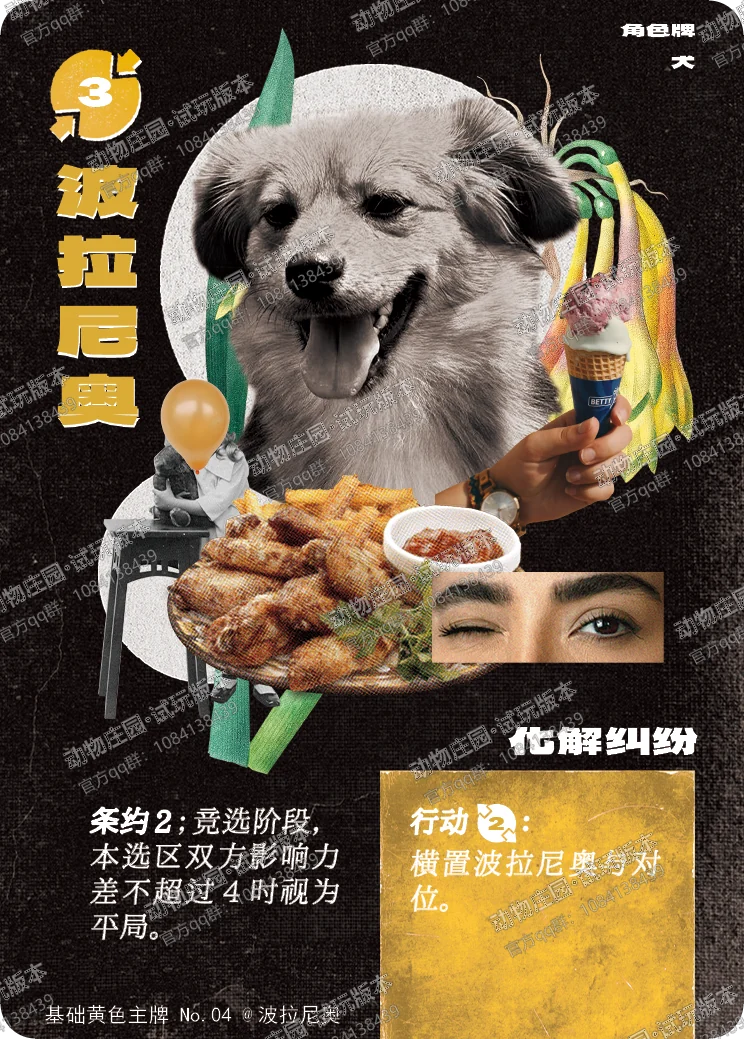
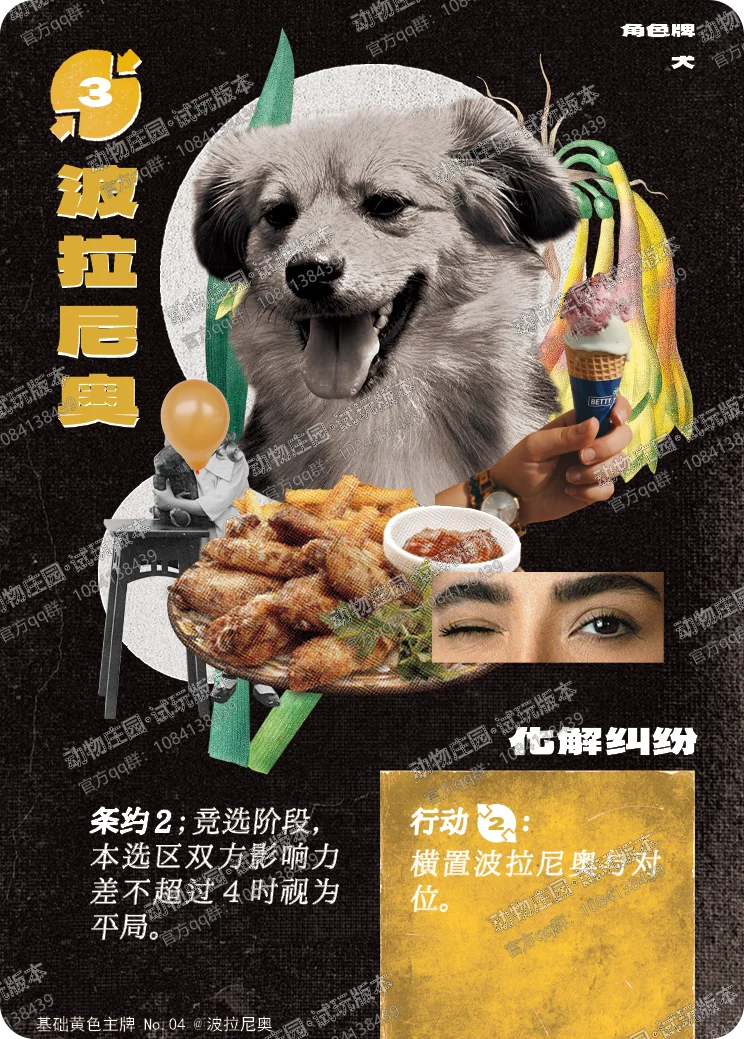
加入4张SP卡(唐纳德鸭/永远在赢/肥头/肥头二世)+更新那只猫/波拉尼奥art；统一补3mm圆角+水印

diff --git a/js/data.js b/js/data.js
@@ -377,7 +377,7 @@ window.CARDS = [
     "declEffect": "再次执行你的上一个行动效果。",
     "bound": "",
     "tags": "",
-    "image": null,
+    "image": "assets/cards/Yellow_SP_Leader_01.webp",
     "altImage": null,
     "pairId": "Yellow_SP_Sub_01"
   },
@@ -394,7 +394,7 @@ window.CARDS = [
     "billName": "反移民政策",
     "billEffect": "在场角色较多的一方无法移动，且不能打出角色进场。",
     "bound": "唐纳德鸭",
-    "image": null,
+    "image": "assets/cards/Yellow_SP_Sub_01.webp",
     "altImage": null,
     "pairId": "Yellow_SP_Leader_01"
   },
@@ -955,7 +955,7 @@ window.CARDS = [
     "declEffect": "{独裁}；从牌堆中检索1张猪角色加入手牌。",
     "bound": "肥头二号",
     "tags": "",
-    "image": null,
+    "image": "assets/cards/Purple_SP_Leader_01.webp",
     "altImage": null,
     "pairId": "Purple_SP_Sub_01"
   },
@@ -974,7 +974,7 @@ window.CARDS = [
     "declEffect": "{独裁}；本回合所有角色不能发动宣言。",
     "bound": "肥头",
     "tags": "",
-    "image": null,
+    "image": "assets/cards/Purple_SP_Sub_01.webp",
     "altImage": null,
     "pairId": "Purple_SP_Leader_01"
   }